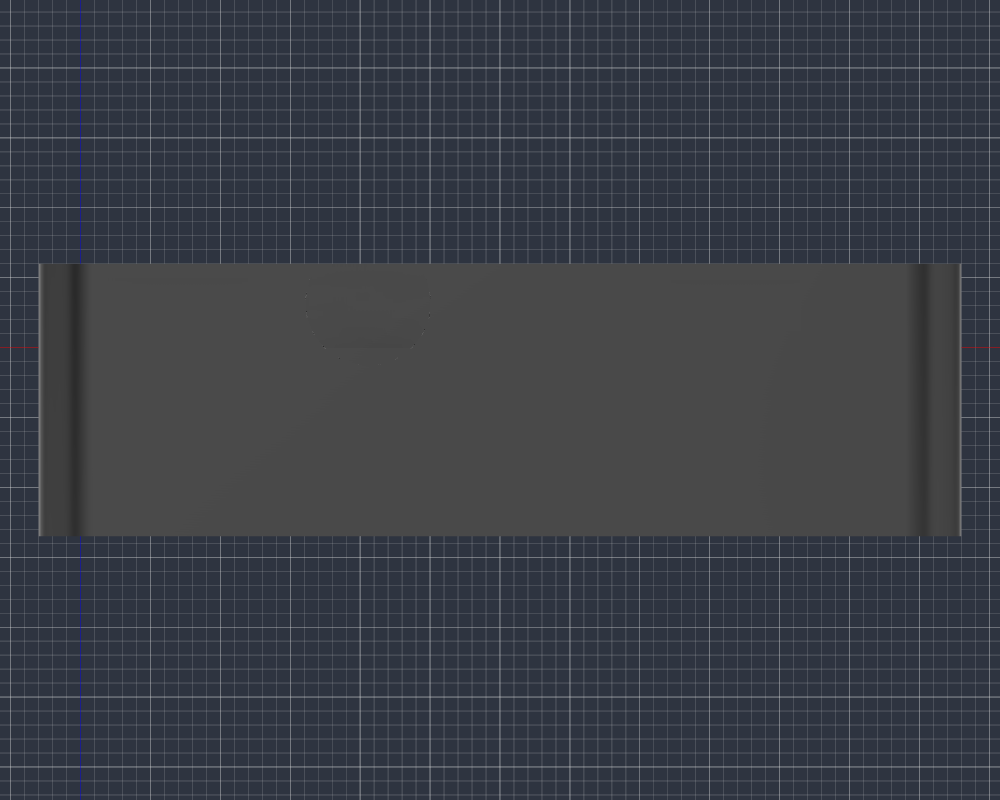
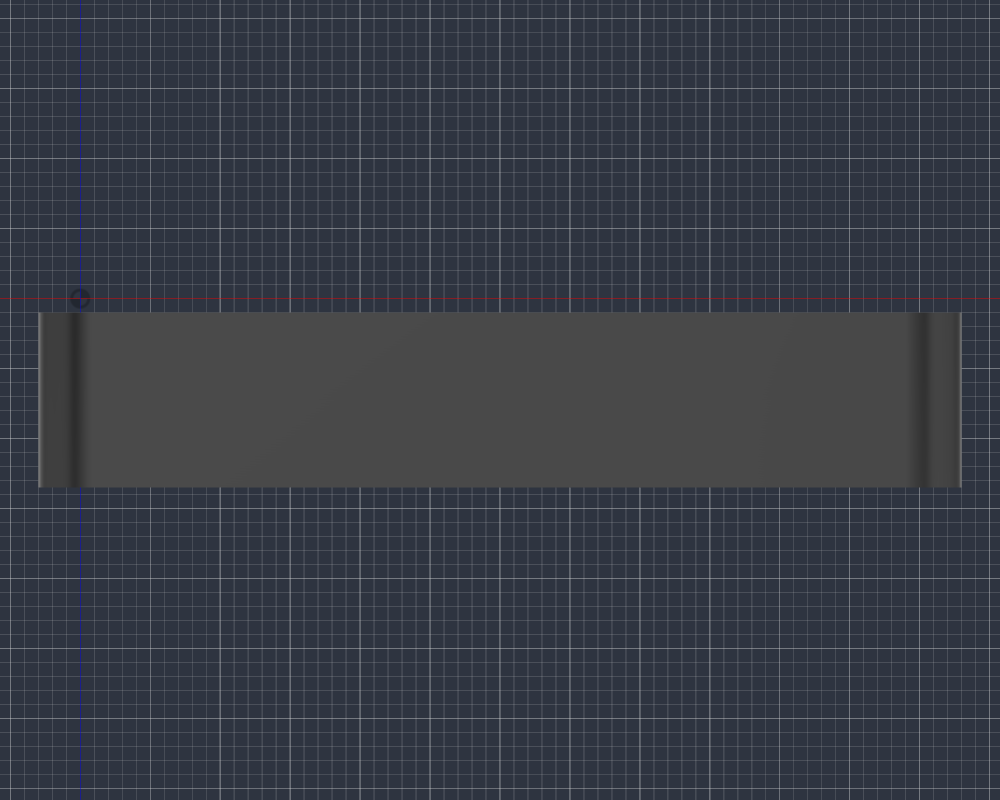
refactor(fusion): 按用户分件方式重做 —— 板/屏幕/连接器全在前壳，RF 天线穿背面
用户指出两件事（我原来理解反了）：
  1. "DC 和两个 USB-C 都是屏幕这一侧的"
  2. "这三个开口是屏幕那一边外壳的底部。你现在放来另外一边的外壳上面了"
  并选定 RF 天线放在：**盒子背面（-Z 大平面），天线朝后**

# 原来错在哪

我把分模面放在 Z=6（板的上面 4.4mm），于是板和屏幕在前壳、而三个连接器
（在板的上表面、Z 1.2..5.0）落到了**背壳**那一半 —— 用户看到的就是"开口跑到另一半去了"。

# 改法

把分模面挪到**板的下面 1mm**（Z = -1.0）：

    MeshCase_Cover（前壳）  Z -1.0 .. 17.5
        收下：板 + 屏幕 + 三个连接器（底壁开口）+ 按键 + 传感器窗 + GPS
        PCB 托板 8 个（Z -1..0，板搭在 Z=0）
        止口向下插进背壳
    MeshCase_Tray（背壳）   Z -13.5 .. -1.0
        浅后盖，内部底面 -11（容背面 470uF 的 10.5）
        **RF 天线 Ø6 圆孔开在背面**，正对 E22 模块

# 验证（直接查几何）

    SMA: 半径 3.00，轴 (0,0,-1) —— 沿 Z 朝后
         X 12.2..18.2（中心 15.2 = E22 的 X）
         Y 54.8..60.8（中心 57.8 = E22 的 Y）
         背壳背面 2 个环 = 外边界 + SMA 圆孔
    前壳底壁外表面 **3 个环** = 三个连接器开口确实都在前壳
    两个件均**单实体、零错误**

# 交付

    MeshCase_Cover.stl  49 KB   25.747 cm3 / 31.9 g
    MeshCase_Tray.stl   15 KB   21.856 cm3 / 27.1 g
    装配后总厚 31mm

diff --git a/fusion/meshtastic-station/enclosure.py b/fusion/meshtastic-station/enclosure.py
@@ -31,18 +31,22 @@ BOARD_W, BOARD_D, BOARD_T = 60.0, 80.0, 1.6
 WALL = 3.0
 FIT = 0.25                       # 板与内腔单边间隙
 
-TRAY_Z0, TRAY_Z1 = -13.5, 6.0    # 托盘：底面 -> 分模面（内部底面 -11，容 470uF 的 10.5）
+# 分模面放在**板的下面 1mm**：这样板、屏幕、三个连接器全在**前壳**里（用户要的），
+# 背壳只是一个浅后盖，RF 天线（SMA）穿它的底面。
+SEAM = -1.0
+TRAY_Z0, TRAY_Z1 = -13.5, SEAM   # 背壳（后盖）：内部底面 -11，容 470uF 的 10.5
+TRAY_FLOOR_IN = -11.0
 FLOOR = 2.5
-SEAM = TRAY_Z1
 
-COVER_IN_Z = 15.0                # 前盖内顶面（平）：1.6 板 + 12 OLED + 1.4 余量
-COVER_TOP = COVER_IN_Z + 2.5     # 前盖外顶面
+COVER_Z0 = SEAM                  # 前壳从分模面起
+COVER_IN_Z = 15.0                # 前壳内顶面（平）：1.6 板 + 12 OLED + 1.4 余量
+COVER_TOP = COVER_IN_Z + 2.5     # 前壳外顶面
 TONGUE_D, TONGUE_T = 1.5, 1.5    # 止口：插进托盘内腔的一圈舌头
 TONGUE_CLR = 0.35                # 止口外圈与内腔的间隙（否则零配合、插不进去）
 DC_RELIEF_W, DC_RELIEF_Z = 12.0, 10.0   # 前盖底壁给 DC 插头让路的开口
 
 # PCB 托板（侧边几个小凸台，板搭在上面）
-TAB_LEN, TAB_DEPTH, TAB_TH = 8.0, 1.5, 1.5
+TAB_LEN, TAB_DEPTH, TAB_TH = 8.0, 1.5, 1.0    # 托板 1mm 厚（-1..0，板底面在 0）
 TAB_YS = [8.0, 38.0, 68.0]       # 每侧 3 个
 
 # 底壁开孔（都在托盘的 -Y 壁）
@@ -60,7 +64,7 @@ PLUNGER_R = 2.5
 BTN_TOP_Z = 5.6                  # 板上表面 1.6 + 4mm（用户给的参考）
 PLUNGER_TIP_Z = 7.5              # 尖端到 7.5 -> 与按钮顶留 1.9mm 缝（行程长，不必紧贴）
 SENSOR_Y0, SENSOR_Y1, SENSOR_Z0, SENSOR_Z1 = 56.0, 76.0, 2.0, 14.0
-SMA_X, SMA_Z, SMA_D = 15.0, 11.0, 6.0
+SMA_X, SMA_Y, SMA_D = 15.24, 57.77, 6.0   # 背壳底面，正对 E22 模块（RF 在板的背面）
 GPS_X0, GPS_X1, GPS_Z0, GPS_Z1 = 39.0, 59.0, 8.0, 14.0
 GPS_DEPTH, GPS_LIP = 1.5, 1.2
 
@@ -211,6 +215,22 @@ def cut_circle_y(root, cx, cz, d, y_lo, y_hi, name):
     return f
 
 
+def cut_circle_z(root, cx, cy, d, z_lo, z_hi, name):
+    """沿 **Z** 方向切圆孔（草图画在 XY 平面）。背面的 RF 天线孔用它。"""
+    sk = root.sketches.add(root.xYConstructionPlane)
+    sk.name = name + "_sk"
+    sk.sketchCurves.sketchCircles.addByCenterRadius(_sp(sk, cx, cy), d / 2.0 * MM)
+    if sk.profiles.count < 1:
+        raise RuntimeError("%s: 圆未闭合" % name)
+    ext = root.features.extrudeFeatures
+    ei = ext.createInput(sk.profiles.item(0), adsk.fusion.FeatureOperations.CutFeatureOperation)
+    ei.setTwoSidesDistanceExtent(V(z_hi), V(-z_lo))
+    f = ext.add(ei)
+    f.name = name
+    sk.isVisible = False
+    return f
+
+
 def join_circle_z(root, cx, cy, d, z_lo, z_hi, name):
     """沿 Z 方向合并圆柱（按键凸起）。"""
     sk = root.sketches.add(root.xYConstructionPlane)
@@ -241,7 +261,9 @@ def info(root, key):
 
 
 # --------------------------------------------------------------------------- #
-# 背壳托盘：方盒子 + 底壁三孔 + 侧边托板
+# --------------------------------------------------------------------------- #
+# 背壳（后盖）：浅盒 + 背面 RF 天线孔 + 止口让位
+#   用户明确：DC 和两个 USB-C 属于**屏幕那一半**（前壳），RF 天线在**另外一侧**（背面）
 # --------------------------------------------------------------------------- #
 def build_tray():
     doc, design, root = fresh(DOC_TRAY)
@@ -249,32 +271,57 @@ def build_tray():
     cx0, cy0, cx1, cy1 = -FIT, -FIT, BOARD_W + FIT, BOARD_D + FIT
 
     body_rect(root, ox0, oy0, ox1, oy1, TRAY_Z0, TRAY_Z1, 4.0, DOC_TRAY)
-    step("托盘外形: %.3f cm3" % root.bRepBodies.item(0).volume)
+    step("背壳外形: %.3f cm3" % root.bRepBodies.item(0).volume)
 
-    # 内腔：从内底面一直到分模面
-    cut_rect(root, cx0, cy0, cx1, cy1, TRAY_Z0 + FLOOR, TRAY_Z1 + 1.0, "cavity")
-    step("内腔: %.3f cm3" % root.bRepBodies.item(0).volume)
+    # 内腔：从内部底面到分模面（容背面的 470uF 等）
+    cut_rect(root, cx0, cy0, cx1, cy1, TRAY_FLOOR_IN, TRAY_Z1 + 1.0, "cavity")
+    step("背壳内腔: %.3f cm3" % root.bRepBodies.item(0).volume)
 
-    # 侧边托板：每侧 3 个，板搭在它们上面（Z = 0 就是板的底面）
-    for y in TAB_YS:
-        ty0, ty1 = y - TAB_LEN / 2, y + TAB_LEN / 2
-        join_rect(root, cx0, ty0, cx0 + TAB_DEPTH, ty1, -TAB_TH, 0.0, "tab_l_%.0f" % y)
-        join_rect(root, cx1 - TAB_DEPTH, ty0, cx1, ty1, -TAB_TH, 0.0, "tab_r_%.0f" % y)
-    # 上下两端各一个，压住板的前后
-    # ⚠ 前面这条托板必须让开 DC5521 的孔：原来一整条横跨 X12..48，
-    #    Ø9 的孔从中啃出一个缺口（Tray 上肉眼可见的怪东西）。改成左右两段。
-    # 让开 DC 的 X 范围（Ø9 孔占 16.1..25.1），两段都留够宽度，避免出现 0.6mm 薄片
-    join_rect(root, 12.0, cy0, 15.0, cy0 + TAB_DEPTH, -TAB_TH, 0.0, "tab_b1")
-    join_rect(root, 26.0, cy0, 48.0, cy0 + TAB_DEPTH, -TAB_TH, 0.0, "tab_b2")
-    join_rect(root, 12.0, cy1 - TAB_DEPTH, 48.0, cy1, -TAB_TH, 0.0, "tab_t")
-    step("侧边托板: %.3f cm3" % root.bRepBodies.item(0).volume)
-
-    # 上沿一圈让位：把 4.5..6.2 这一段内腔放大 TONGUE_CLR，前盖的止口才插得进去
+    # 前壳止口插进来的让位
     cut_rect(root, cx0 - TONGUE_CLR, cy0 - TONGUE_CLR, cx1 + TONGUE_CLR, cy1 + TONGUE_CLR,
              SEAM - TONGUE_D, SEAM + 0.2, "rim_relief")
-    step("上沿让位: %.3f cm3" % root.bRepBodies.item(0).volume)
+    step("止口让位: %.3f cm3" % root.bRepBodies.item(0).volume)
 
-    # 底壁三个开孔（都开在 -Y 壁，切到板边为止）
+    # RF 天线：Ø6 圆孔开在**背面**（-Z 底面），位置正对 E22 模块，天线朝后
+    cut_circle_z(root, SMA_X, SMA_Y, SMA_D, TRAY_Z0 - 1.0, TRAY_FLOOR_IN + 0.01, "hole_sma")
+    step("SMA Ø%.1f 背面圆孔" % SMA_D)
+
+    info(root, DOC_TRAY)
+    return doc
+
+
+# --------------------------------------------------------------------------- #
+# 前壳：收下板 + 屏幕 + 三个连接器（都在这一半）
+# --------------------------------------------------------------------------- #
+def build_cover():
+    doc, design, root = fresh(DOC_COVER)
+    ox0, oy0, ox1, oy1 = -WALL, -WALL, BOARD_W + WALL, BOARD_D + WALL
+    cx0, cy0, cx1, cy1 = -FIT, -FIT, BOARD_W + FIT, BOARD_D + FIT
+
+    body_rect(root, ox0, oy0, ox1, oy1, COVER_Z0, COVER_TOP, 4.0, DOC_COVER)
+    step("前壳外形: %.3f cm3" % root.bRepBodies.item(0).volume)
+
+    # 平的内腔：从分模面一直到内顶面
+    cut_rect(root, cx0, cy0, cx1, cy1, COVER_Z0 - 1.0, COVER_IN_Z, "cavity")
+    step("内腔: %.3f cm3" % root.bRepBodies.item(0).volume)
+
+    # PCB 托板：板搭在 Z=0，托板占 Z -1..0
+    for y in TAB_YS:
+        ty0, ty1 = y - TAB_LEN / 2, y + TAB_LEN / 2
+        join_rect(root, cx0, ty0, cx0 + TAB_DEPTH, ty1, COVER_Z0, 0.0, "tab_l_%.0f" % y)
+        join_rect(root, cx1 - TAB_DEPTH, ty0, cx1, ty1, COVER_Z0, 0.0, "tab_r_%.0f" % y)
+    join_rect(root, 12.0, cy0, 15.0, cy0 + TAB_DEPTH, COVER_Z0, 0.0, "tab_b1")
+    join_rect(root, 26.0, cy0, 48.0, cy0 + TAB_DEPTH, COVER_Z0, 0.0, "tab_b2")
+    join_rect(root, 12.0, cy1 - TAB_DEPTH, 48.0, cy1, COVER_Z0, 0.0, "tab_t")
+    step("PCB 托板: %.3f cm3" % root.bRepBodies.item(0).volume)
+
+    # 止口：往下插进背壳，必须搭到本体的底面（否则无操作、整圈消失）
+    join_rect(root, cx0, cy0, cx1, cy1, SEAM - TONGUE_D, SEAM + 0.2, "tongue_out")
+    cut_rect(root, cx0 + TONGUE_T, cy0 + TONGUE_T, cx1 - TONGUE_T, cy1 - TONGUE_T,
+             SEAM - TONGUE_D - 0.5, SEAM + 0.5, "tongue_in")
+    step("止口: %.3f cm3" % root.bRepBodies.item(0).volume)
+
+    # 底壁三个连接器开口 —— 全部在这一半的底壁（用户：屏幕那一侧的底部）
     wy0, wy1 = oy0 - 1.0, cy0 + 0.25
     cut_rect(root, PD_X - PD_W / 2, wy0, PD_X + PD_W / 2, wy1, PD_Z0, PD_Z1, "cut_pd")
     cut_circle_y(root, DC_X, DC_ZC, DC_D, wy0, wy1, "cut_dc")
@@ -282,57 +329,18 @@ def build_tray():
              PICO_Z0, PICO_Z1, "cut_pico")
     step("底壁三孔: %.3f cm3" % root.bRepBodies.item(0).volume)
 
-    info(root, DOC_TRAY)
-    return doc
-
-
-# --------------------------------------------------------------------------- #
-# 前盖：平板 + 平的内腔 + 各处开窗
-# --------------------------------------------------------------------------- #
-def build_cover():
-    doc, design, root = fresh(DOC_COVER)
-    ox0, oy0, ox1, oy1 = -WALL, -WALL, BOARD_W + WALL, BOARD_D + WALL
-    cx0, cy0, cx1, cy1 = -FIT, -FIT, BOARD_W + FIT, BOARD_D + FIT
-
-    # 一个方盒子：外廓 66x86，从分模面到平顶
-    body_rect(root, ox0, oy0, ox1, oy1, SEAM, COVER_TOP, 4.0, DOC_COVER)
-    step("前盖外形: %.3f cm3" % root.bRepBodies.item(0).volume)
-
-    # 平的内腔（到 COVER_IN_Z）
-    cut_rect(root, cx0, cy0, cx1, cy1, SEAM - 1.0, COVER_IN_Z, "cavity")
-    step("内腔: %.3f cm3" % root.bRepBodies.item(0).volume)
-
-    # 止口：join 必须搭到 SEAM（本体底面），否则是无操作、整圈消失
-    # ⚠ 止口必须贴着自己的墙（外圈 = 内腔尺寸），否则会脱离本体变成悬空环、
-    #    前盖直接变 2 个实体。配合间隙改由**托盘上沿让位**提供（见 build_tray 的 rim_relief）。
-    join_rect(root, cx0, cy0, cx1, cy1, SEAM - TONGUE_D, SEAM + 0.2, "tongue_out")
-    cut_rect(root, cx0 + TONGUE_T, cy0 + TONGUE_T, cx1 - TONGUE_T, cy1 - TONGUE_T,
-             SEAM - TONGUE_D - 0.5, SEAM + 0.5, "tongue_in")
-    step("止口: %.3f cm3" % root.bRepBodies.item(0).volume)
-
-    # OLED 窗口（平顶上开窗）
+    # OLED 窗口
     cut_rect(root, OLED_X - OLED_W / 2, OLED_Y - OLED_H / 2,
              OLED_X + OLED_W / 2, OLED_Y + OLED_H / 2,
              COVER_IN_Z - 2.0, COVER_TOP + 1.0, "win_oled")
     step("OLED 窗口")
-
-    # 底壁给 DC5521 插头让路：托盘那边的 Ø9 只到 Z=6，而插头外模约 6mm 高、
-    # 需要到 Z~9 才能插到底 —— 前盖壁必须同位置开口。
-    cut_rect(root, DC_X - DC_RELIEF_W / 2, -WALL - 1.0, DC_X + DC_RELIEF_W / 2,
-             cy0 + 0.25, SEAM - 1.0, DC_RELIEF_Z, "dc_relief")
-    step("DC 插头让位口")
 
     # 右侧壁传感器窗口
     cut_rect(root, BOARD_W + FIT - 1.0, SENSOR_Y0, BOARD_W + WALL + 1.0, SENSOR_Y1,
              SENSOR_Z0, SENSOR_Z1, "win_sensor")
     step("传感器窗口")
 
-    # 顶壁左侧：SMA Ø6 圆孔（沿 Y 穿墙）
-    cut_circle_y(root, SMA_X, SMA_Z, SMA_D,
-                 BOARD_D + FIT - 1.0, BOARD_D + WALL + 1.0, "hole_sma")
-    step("SMA Ø%.1f 圆孔" % SMA_D)
-
-    # 顶壁右侧：GPS 陶瓷贴片槽 + 槽底 + 上沿挡边
+    # 顶壁右侧：GPS 陶瓷贴片槽 + 槽底 + 挡边
     wall_in, wall_out = BOARD_D + FIT - 0.5, BOARD_D + WALL
     cut_rect(root, GPS_X0, wall_in, GPS_X1, wall_out + 1.0, GPS_Z0, GPS_Z1, "pocket_gps")
     join_rect(root, GPS_X0 - GPS_LIP, wall_in, GPS_X1 + GPS_LIP, wall_out,
@@ -341,16 +349,15 @@ def build_cover():
               GPS_Z1, GPS_Z1 + GPS_LIP, "gps_tab")
     step("GPS 槽")
 
-    # 两块独立按键板：各自三边挖槽 + 顶部铰链 + 一个凸起；中间那道槽把两块切开
+    # 两块独立按键板
     py0, py1 = BTN_Y - PLATE_H / 2, BTN_Y + PLATE_H / 2
-    zt0, zt1 = SEAM - 1.0, COVER_TOP + 1.0
+    zt0, zt1 = COVER_Z0 - 1.0, COVER_TOP + 1.0
     lx0, lx1 = BTN_X - BTN_DX - PLATE_W / 2, BTN_X - BTN_DX + PLATE_W / 2
     rx0, rx1 = BTN_X + BTN_DX - PLATE_W / 2, BTN_X + BTN_DX + PLATE_W / 2
     cut_rect(root, lx0 - SLOT_W, py0 - SLOT_W, lx0, py1 + SLOT_W, zt0, zt1, "slot_l_out")
     cut_rect(root, lx1, py0 - SLOT_W, rx0, py1 + SLOT_W, zt0, zt1, "slot_mid")
     cut_rect(root, rx1, py0 - SLOT_W, rx1 + SLOT_W, py1 + SLOT_W, zt0, zt1, "slot_r_out")
     cut_rect(root, lx0 - SLOT_W, py0 - SLOT_W, rx1 + SLOT_W, py0, zt0, zt1, "slot_bot")
-    # ⚠ 从内顶面（15）**往上**留出 HINGE_T，写成 COVER_IN_Z - HINGE_T 是倒区间、切不到
     hz = COVER_IN_Z + (COVER_TOP - COVER_IN_Z) - HINGE_T
     cut_rect(root, lx0, py1 - 1.0, lx1, py1 + SLOT_W, COVER_IN_Z, hz, "hinge_l")
     cut_rect(root, rx0, py1 - 1.0, rx1, py1 + SLOT_W, COVER_IN_Z, hz, "hinge_r")
